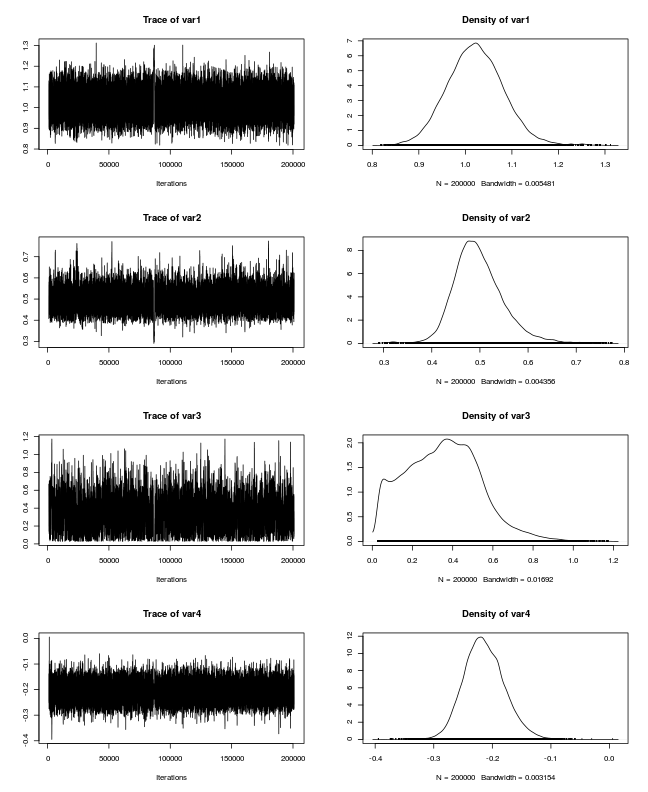
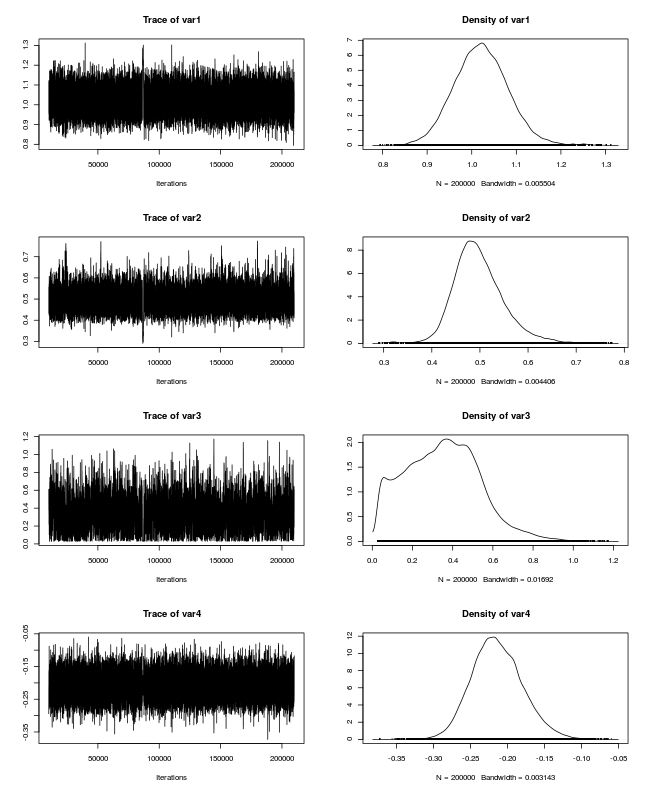
updates

diff --git a/R/evmix_fit/README.md b/R/evmix_fit/README.md
@@ -177,7 +177,7 @@ hsig_mixture_fit = evmix_fit$mcmc_gpd_mixture(
     mcmc_start_perturbation=c(0.4, 0.4, 1., 0.2), # If multiple chains, randomly perturb their starting values
     mcmc_length=mcmc_chain_length,
     mcmc_thin=mcmc_chain_thin,
-    mcmc_burnin=1000,
+    mcmc_burnin=10000,
     mcmc_nchains=mcmc_nchains,
     mcmc_tune=c(1,1,1,1)*1,
     mc_cores=mcmc_ncores,
@@ -188,7 +188,7 @@ hsig_mixture_fit = evmix_fit$mcmc_gpd_mixture(
 ## 
 ## 
 ## @@@@@@@@@@@@@@@@@@@@@@@@@@@@@@@@@@@@@@@@@@@@@@@@@@@@@@@@@
-## The Metropolis acceptance rate was 0.41280
+## The Metropolis acceptance rate was 0.41247
 ## @@@@@@@@@@@@@@@@@@@@@@@@@@@@@@@@@@@@@@@@@@@@@@@@@@@@@@@@@
 ```
 
@@ -208,13 +208,13 @@ lapply(hsig_mixture_fit$mcmc_chains, f<-function(x) summary(as.matrix(x)))
 
 ```
 ## [[1]]
-##       var1             var2             var3              var4          
-##  Min.   :0.8175   Min.   :0.2906   Min.   :0.02804   Min.   :-0.394614  
-##  1st Qu.:0.9813   1st Qu.:0.4630   1st Qu.:0.21031   1st Qu.:-0.237538  
-##  Median :1.0209   Median :0.4919   Median :0.35170   Median :-0.215647  
-##  Mean   :1.0221   Mean   :0.4975   Mean   :0.35093   Mean   :-0.213992  
-##  3rd Qu.:1.0609   3rd Qu.:0.5263   3rd Qu.:0.47608   3rd Qu.:-0.191739  
-##  Max.   :1.3120   Max.   :0.7741   Max.   :1.17297   Max.   : 0.005435
+##       var1             var2             var3              var4        
+##  Min.   :0.7946   Min.   :0.2906   Min.   :0.02804   Min.   :-0.3727  
+##  1st Qu.:0.9806   1st Qu.:0.4632   1st Qu.:0.20801   1st Qu.:-0.2375  
+##  Median :1.0204   Median :0.4922   Median :0.34914   Median :-0.2157  
+##  Mean   :1.0216   Mean   :0.4981   Mean   :0.34917   Mean   :-0.2140  
+##  3rd Qu.:1.0605   3rd Qu.:0.5272   3rd Qu.:0.47434   3rd Qu.:-0.1919  
+##  Max.   :1.3120   Max.   :0.7741   Max.   :1.17297   Max.   :-0.0598
 ```
 
 ```r
@@ -226,7 +226,7 @@ lapply(hsig_mixture_fit$ari_100_chains,
 ```
 ## [[1]]
 ##     2.5%      50%    97.5% 
-## 3.063887 3.216171 3.527740
+## 3.064115 3.216005 3.524623
 ```
 
 ```r
